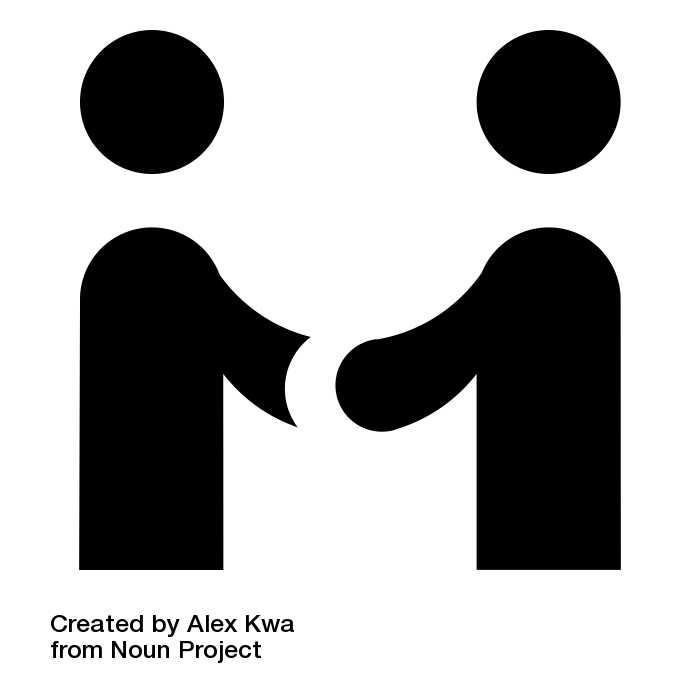
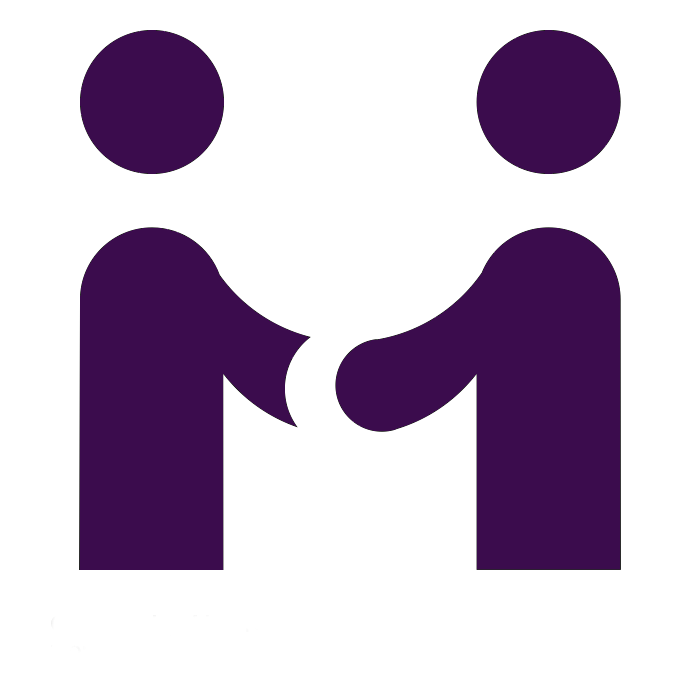
# 견적서 기능 디자인 중  1. List 화면 디자인 중

diff --git a/screens/HomeScreen.js b/screens/HomeScreen.js
@@ -1,16 +1,13 @@
 import React from 'react';
-import {
-  Image,
-  View,
-} from 'react-native';
-
-import {Button, Body, Container, Content, Header, Left, Label, Icon, Item, Right, Subtitle, Text, Title} from 'native-base';
+import {Image,View} from 'react-native';
+import {Icon, LinearGradient } from 'expo'
+import {Button, Body, Container, Content, Card, CardItem, Header, Left, Label, Item, Right, Subtitle, Text, Title} from 'native-base';
 
 import EstmtCreateForm from './estimate/EstmtCreateForm'
 import EstmtList from './estimate/EstmtList';
 
 
-//#3c0c4d
+//#3c0c4d(다크 보라), #30184a(좀 어두운 보라), #451066(좀 밝은 보라) #7a3999(젤 밝은 보라) #4a3752(subtitle, 회색보라)
 export default class HomeScreen extends React.Component {
   static navigationOptions = {
     header: null,
@@ -32,26 +29,55 @@ export default class HomeScreen extends React.Component {
   render() {
     return (
       <Container>
-        <Header>
 
-          <Body style={{marginTop:40}}>
-            <Title>모두의 집사</Title>
-            <Subtitle>한번의 견적으로, 수많은 이사업체들의 경매</Subtitle>
-          </Body>
-
+       <Header style={{marginTop: 0, paddingTop:50, paddingBottom:40, backgroundColor: '#ffffff'}}  >
+         <Left>
+           <Button transparent>
+             <Icon.FontAwesome name={'truck'} size={28} style={{  }} color={'#3c0c4d'} />
+           </Button>
+         </Left>
+         <Body>
+         </Body>
+         <Right>
+           <Button transparent onPress={() => this.props.navigation.navigate('EstmtCreate')}>
+             <Icon.Foundation name={'page-add'} size={28} style={{  }} color={'#3c0c4d'} />
+           </Button>
+         </Right>
         </Header>
 
+
         <Content>
-          <Item style={{marginTop:10}}>
-            <Right>
-              <Button rounded info onPress={() => this.props.navigation.navigate('EstmtCreate')}>
-                <Text>견적서 추가</Text>
-              </Button>
-            </Right>
-          </Item>
+          <Card style={{marginTop:0}}>
+            <LinearGradient
+              colors={['#ffffff', '#ffffff']}
+              style={{ }}>
 
-          <EstmtList detailedEstimate={this.detailedEstimate}/>
+              <CardItem header  style={{height:40, paddingTop:10, backgroundColor:'transparent'}}>
+                <Body style={{alignItems: 'center'}}><Text>한번의 견적으로, 수 많은 이사업체의 경매 시스템</Text></Body>
+              </CardItem>
 
+            </LinearGradient>
+
+            <CardItem cardBody>
+                <Image source={require('../assets/images/main_bg.jpg')} style={{height: 170, width: null, flex: 1}}/>
+            </CardItem>
+         </Card>
+
+          <Card>
+            <LinearGradient
+              colors={['#d49c9b', '#ffffff']}
+              style={{ }}>
+
+              <CardItem header  style={{height:40, paddingTop:10, backgroundColor:'transparent'}}>
+                <Body style={{alignItems: 'center'}}><Icon.Entypo name={'documents'} size={23} style={{  }} color={'#3c0c4d'} /></Body>
+              </CardItem>
+            </LinearGradient>
+
+            <CardItem cardBody >
+              <EstmtList detailedEstimate={this.detailedEstimate} />
+            </CardItem>
+
+         </Card>
         </Content>
       </Container>
     );

diff --git a/screens/estimate/EstmtList.js b/screens/estimate/EstmtList.js
@@ -1,5 +1,6 @@
 import React from "react";
-import { View, FlatList } from "react-native";
+import {Dimensions, View, FlatList } from "react-native";
+import {Grid} from "native-base"
 import { List, ListItem, SearchBar } from 'react-native-elements';
 
 import ListFooter from '../../components/ListFooter';
@@ -10,6 +11,7 @@ export default class EstmtList extends React.Component {
 
     this.state = {
       loading: false,
+      last: false,
       data: [],
       page:0,
       error: null,
@@ -32,6 +34,7 @@ export default class EstmtList extends React.Component {
     .then(res => {
         this.setState({
           data: page === 0 ? res.content : [...this.state.data, ...res.content],
+          last: res.last,
           error: res.error || null,
           loading: false,
           refreshing: false
@@ -84,8 +87,10 @@ export default class EstmtList extends React.Component {
 
 
   render() {
+    var {height, width} = Dimensions.get('window');
     return (
-      <List containerStyle={{borderTopWidth:0, borderBottomWidth:0, marginTop:10}}>
+
+      <List containerStyle={{borderTopWidth:0, borderBottomWidth:0, marginTop:5, marginBottom:5, width: width-10}}>
         <FlatList
           data={this.state.data}
           renderItem={({item}) => (
@@ -93,13 +98,15 @@ export default class EstmtList extends React.Component {
               roundAvatar
               button onPress={() => {this.props.detailedEstimate(item.id)}}
               title={item.userName}
+              titleStyle={{ color: '#451066', fontWeight: 'bold' }}
+              subtitleStyle={{ color: '#b19cba' }}
               subtitle={`${item.mvDate}, ${item.amount}톤`}
-              containerStyle={{borderBottomWidth: 0}}
-              avatar={require('../../assets/images/default_avatar.png')}
+              containerStyle={{borderBottomWidth: 0, }}
+              avatar={require('../../assets/images/userIcon.png')}
             />
           )}
           ListFooterComponent={
-            <ListFooter hasMore={true} isLoading={this.state.loading} />
+            <ListFooter hasMore={!this.state.last} isLoading={this.state.loading} />
           }
           keyExtractor={ (item, index) => index.toString() }
           ItemSeparatorComponent={this.renderSeparator}
@@ -110,6 +117,7 @@ export default class EstmtList extends React.Component {
           onEndReachedThreshold={10}
         />
       </List>
+
     )
   }
 }

diff --git a/screens/estimate/EstmtDetailScreen.js b/screens/estimate/EstmtDetailScreen.js
@@ -2,7 +2,7 @@ import React from 'react';
 import {Alert, Image, Dimensions, StyleSheet } from 'react-native';
 import {Body, Card, CardItem, Container, Content, Col, Grid, Header, Left, Row, Text} from 'native-base';
 import { Icon } from 'expo';
-// import { PanoramaView } from 'react-native-360';
+
 import Colors from '../../constants/Colors';
 
 
@@ -65,6 +65,7 @@ export default class EstimateDetail extends React.Component {
       }
     }
   }
+
 
   componentDidMount() {
     const {navigation} = this.props;
@@ -139,6 +140,7 @@ export default class EstimateDetail extends React.Component {
   };
 
   render() {
+
     var {height, width} = Dimensions.get('window');
     return (
       <Container>
@@ -243,18 +245,7 @@ export default class EstimateDetail extends React.Component {
               <Col>
                 <Card>
                   <CardItem cardBody>
-                    {this.state.estimate.entrPhoto !== ''?
-                      (<PanoramaView
-                          style={{height:200,width:width}}
-                          image={{uri:'https://s3.ap-northeast-2.amazonaws.com/elasticbeanstalk-ap-northeast-2-405113651581/isa/img/example_360.jpg'}}
-                          displayMode={'embedded'}
-                          enableFullscreenButton
-                          enableCardboardButton
-                          enableTouchTracking
-                          hidesTransitionView
-                          enableInfoButton={false}
-                      />   )
-                      : null}
+                    {this.state.estimate.entrPhoto !== ''? <Image source={{uri: this.state.estimate.entrPhoto}} style={{width:width,height: 400, marginTop:100}}/>: null}
                   </CardItem>
                 </Card>
               </Col>

diff --git a/constants/Colors.js b/constants/Colors.js
@@ -1,4 +1,4 @@
-const tintColor = '#2f95dc';
+const tintColor = '#451066';
 
 export default {
   tintColor,
